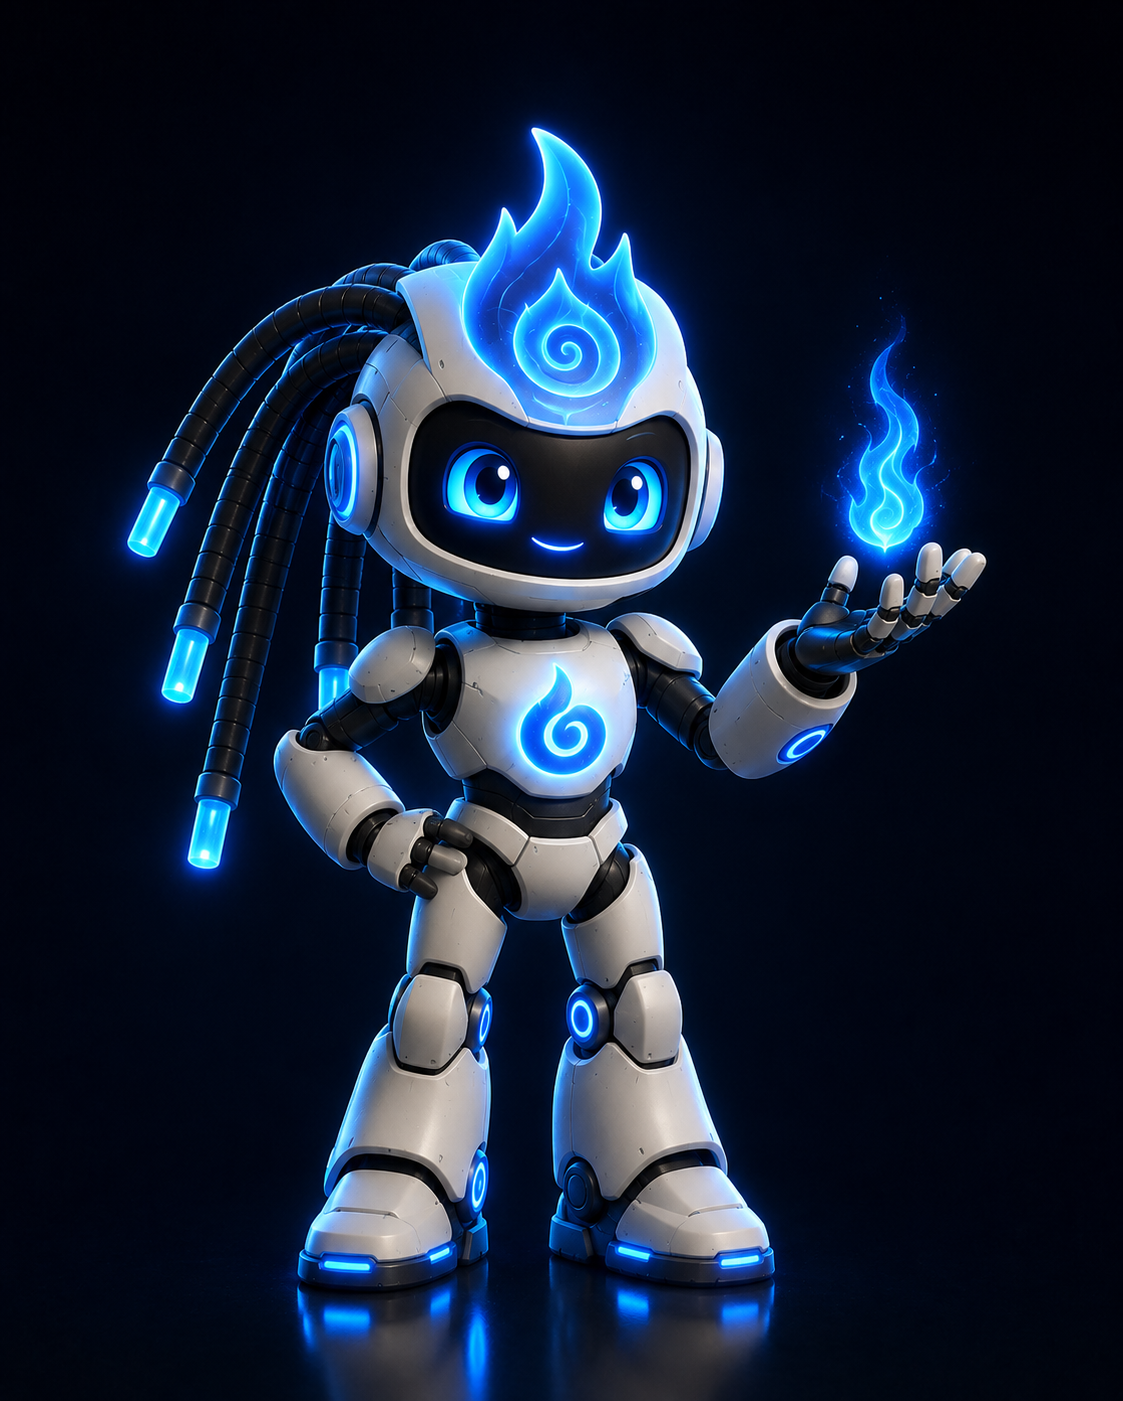
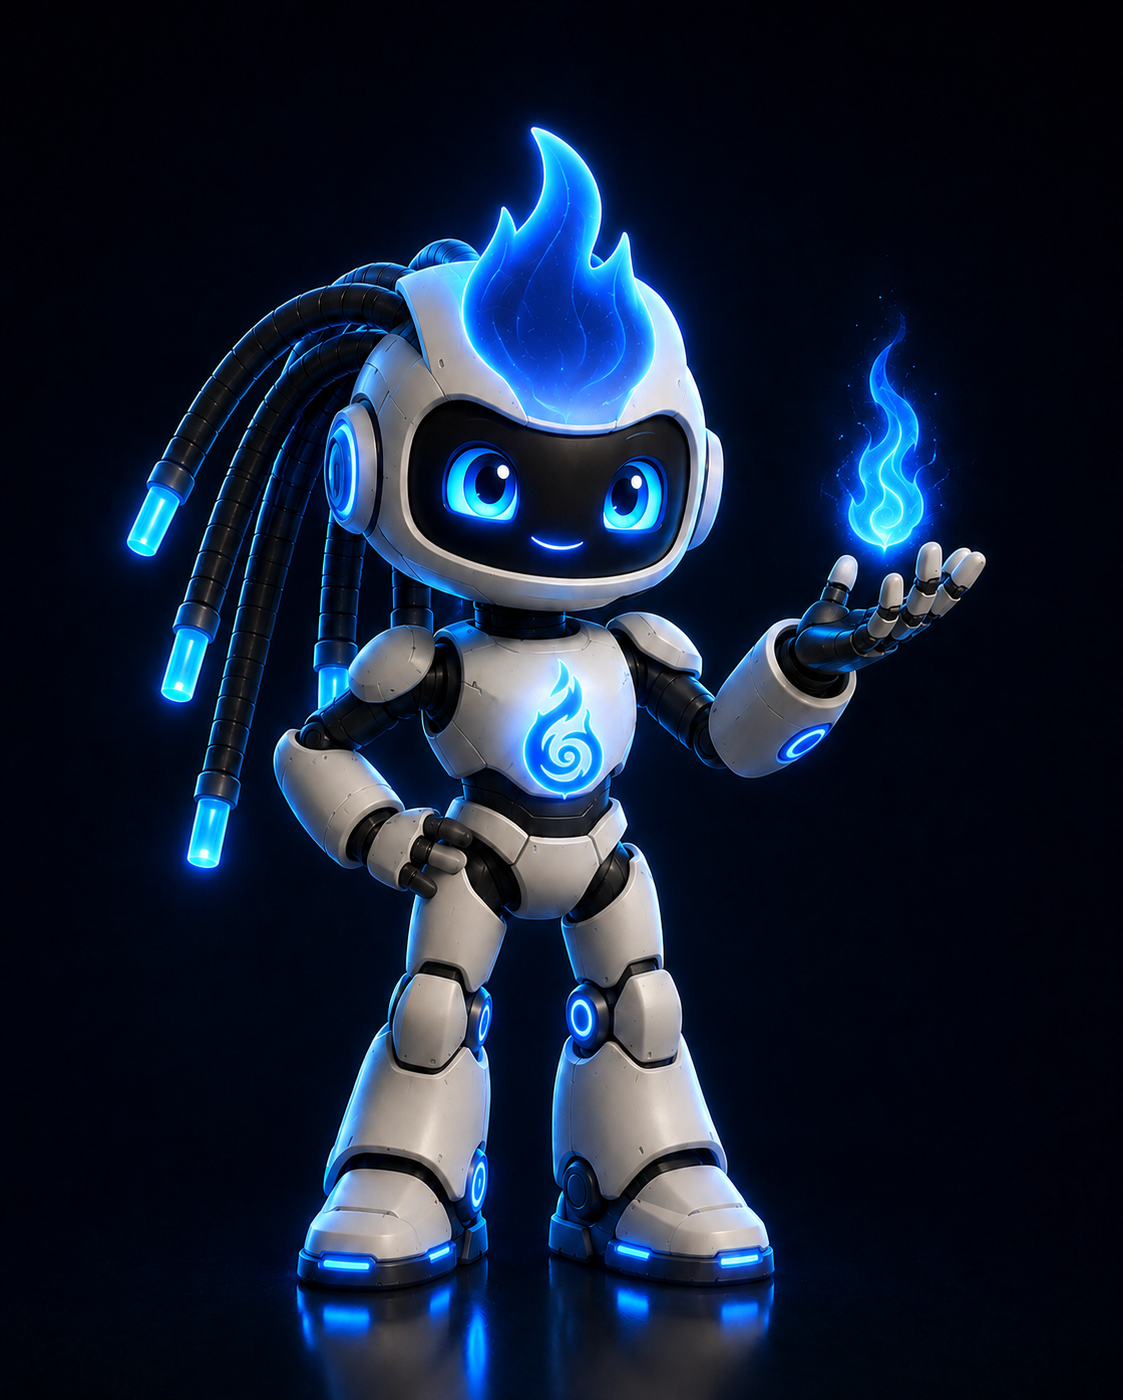
refactor: update brand assets and add repository documentation

diff --git a/GEMINI.md b/GEMINI.md
@@ -1,0 +1,31 @@
+## Project Configuration
+
+- **Language**: TypeScript
+- **Package Manager**: bun
+- **Add-ons**: prettier, tailwindcss, sveltekit-adapter, mcp
+
+---
+
+You are able to use the Svelte MCP server, where you have access to comprehensive Svelte 5 and SvelteKit documentation. Here's how to use the available tools effectively:
+
+## Available Svelte MCP Tools:
+
+### 1. list-sections
+
+Use this FIRST to discover all available documentation sections. Returns a structured list with titles, use_cases, and paths.
+When asked about Svelte or SvelteKit topics, ALWAYS use this tool at the start of the chat to find relevant sections.
+
+### 2. get-documentation
+
+Retrieves full documentation content for specific sections. Accepts single or multiple sections.
+After calling the list-sections tool, you MUST analyze the returned documentation sections (especially the use_cases field) and then use the get-documentation tool to fetch ALL documentation sections that are relevant for the user's task.
+
+### 3. svelte-autofixer
+
+Analyzes Svelte code and returns issues and suggestions.
+You MUST use this tool whenever writing Svelte code before sending it to the user. Keep calling it until no issues or suggestions are returned.
+
+### 4. playground-link
+
+Generates a Svelte Playground link with the provided code.
+After completing the code, ask the user if they want a playground link. Only call this tool after user confirmation and NEVER if code was written to files in their project.
